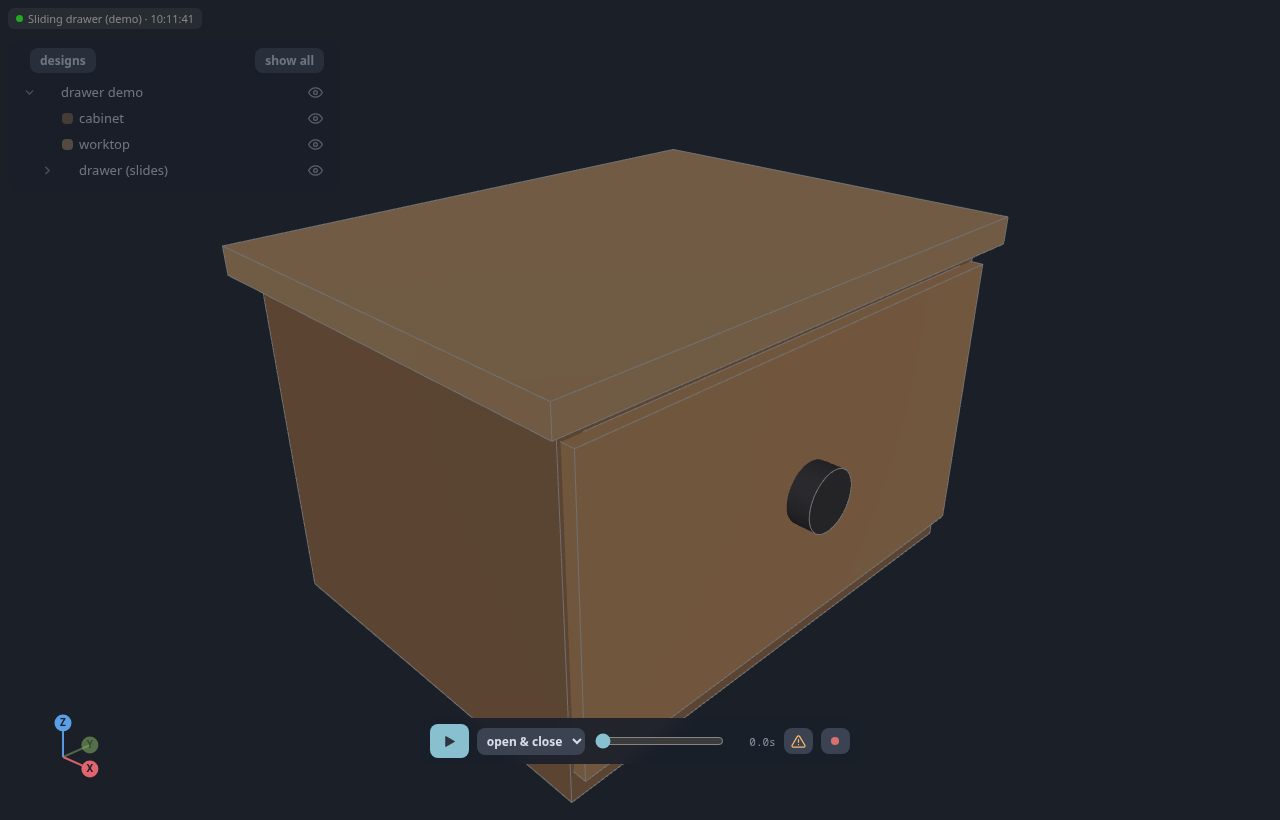
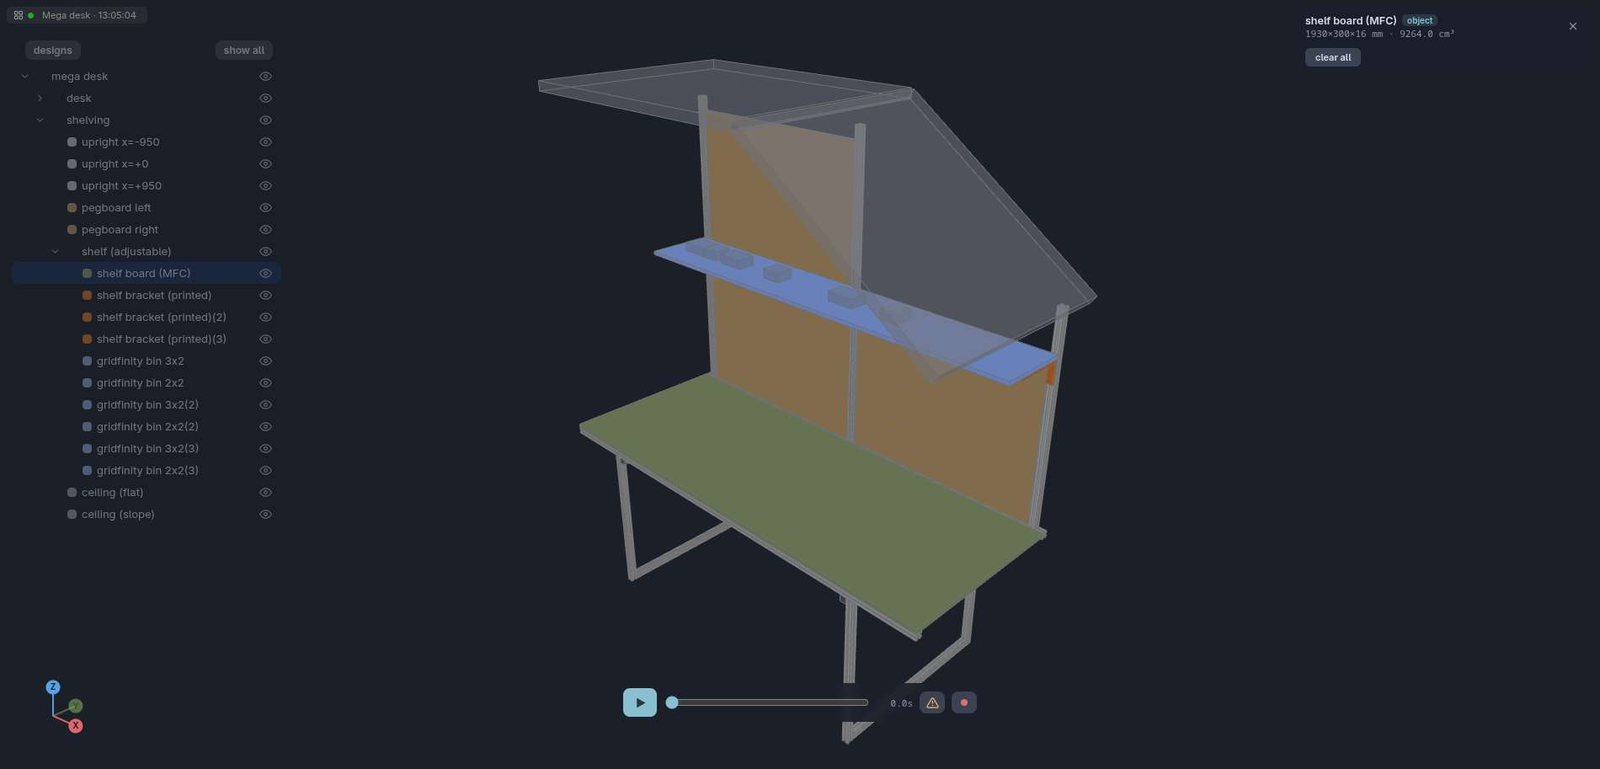
examples: a real 2 m workbench with shelving (mega desk) and an XY gantry with stacked Z + gripper (pick-and-place clip)

diff --git a/examples/gantry.py b/examples/gantry.py
@@ -1,0 +1,137 @@
+"""Gantry — a 1000 x 500 belt-driven XY stage on a 20-series frame with a
+stacked two-axis Z and a gripper over a bed of samples (a lab robot,
+condensed). Nested groups ride on each other — Y stage > X carriage > Z1 >
+Z2 > gripper — so one clip with tracks on five nodes is a full pick-and-
+place, and the ⚠ clearance check has real work to do.
+
+    python examples/gantry.py           -> http://127.0.0.1:3941/gantry
+"""
+import os
+
+from build123d import Align, Box, Color, Compound, Cylinder, Pos, Rot
+
+os.environ.setdefault("CADVIEW_SCENE", "gantry")
+
+X_RAIL, Y_RAIL = 1000.0, 500.0           # actuator rail lengths
+DECK_H = 450.0                           # base top -> deck
+BEAM_W, BEAM_H = 40.0, 20.0              # 2040 lying flat
+POST = 40.0
+RAIL_W, RAIL_H = 20.0, 40.0              # actuator rail section (carriage rides the narrow face)
+PLATE, PLATE_T, LIFT = 65.5, 3.0, 2.5    # gantry plate, its thickness, gap over the rail
+TRAVEL_LOSS = 154.0                      # plate + end-stops
+BED_Z = 26.0
+UP = (Align.CENTER, Align.CENTER, Align.MIN)
+
+ALU = Color(0.78, 0.80, 0.83)
+RAIL = Color(0.62, 0.64, 0.68)
+PLATE_C = Color(0.16, 0.16, 0.18)
+MOTOR = Color(0.22, 0.22, 0.24)
+BED = Color(0.85, 0.83, 0.78)
+GRIP = Color(0.85, 0.45, 0.15)
+LID = Color(0.85, 0.88, 1.0, 0.25)
+SAMPLES = [Color(0.85, 0.3, 0.3), Color(0.3, 0.6, 0.9), Color(0.95, 0.75, 0.2), Color(0.4, 0.75, 0.4)]
+
+
+def part(shape, label, color):
+    shape.label, shape.color = label, color
+    return shape
+
+
+def nema17(label):
+    body = Box(42.3, 42.3, 40, align=UP) + Pos(0, 0, 40) * Cylinder(2.5, 22, align=UP)
+    return part(body, label, MOTOR)
+
+
+def frame():
+    parts = []
+    base_z = BEAM_H / 2
+    for sy, name in ((-1, "front beam (2060 arm rail)"), (1, "rear beam")):
+        w = 60 if sy < 0 else BEAM_W
+        parts.append(part(Pos(0, sy * (Y_RAIL / 2 - w / 2), base_z) * Box(X_RAIL, w, BEAM_H), name, ALU))
+    for sx in (-1, 1):
+        parts.append(part(Pos(sx * (X_RAIL / 2 - BEAM_W / 2), 0, base_z) * Box(BEAM_W, Y_RAIL - 100, BEAM_H),
+                          f"side beam {'left' if sx < 0 else 'right'}", ALU))
+        for sy in (-1, 1):
+            parts.append(part(Pos(sx * (X_RAIL / 2 - POST / 2), sy * (Y_RAIL / 2 - BEAM_H / 2), BEAM_H) * Box(POST, BEAM_H, DECK_H, align=UP),
+                              f"post {'front' if sy < 0 else 'rear'} {'left' if sx < 0 else 'right'}", ALU))
+    parts.append(part(Pos(0, 0, BED_Z) * Box(X_RAIL - 2 * POST, Y_RAIL - 60, 6), "bed", BED))
+    for i, (x, y) in enumerate(((-120, -40), (0, 40), (120, -30), (240, 50))):
+        parts.append(part(Pos(x, y, BED_Z + 3) * Cylinder(22, 14, align=UP), f"sample {'ABCD'[i]}", SAMPLES[i]))
+    parts.append(part(Pos(0, 0, BEAM_H + DECK_H + RAIL_H + 60) * Box(X_RAIL, Y_RAIL, 8), "LED lightbox lid", LID))
+    return Compound(children=parts, label="frame")
+
+
+def gantry(cx=0.5, cy=0.5, cz=0.3):
+    deck_z = BEAM_H + DECK_H                              # top of the posts
+    y_travel, x_travel = Y_RAIL - TRAVEL_LOSS, X_RAIL - TRAVEL_LOSS
+    y0 = -y_travel / 2 + cy * y_travel
+    x0 = -x_travel / 2 + cx * x_travel
+    rails = []
+    for sx in (-1, 1):
+        x = sx * (X_RAIL / 2 - POST / 2)
+        rails.append(part(Pos(x, 0, deck_z) * Box(RAIL_W, Y_RAIL, RAIL_H, align=UP), f"Y rail {'left' if sx < 0 else 'right'}", RAIL))
+        rails.append(Pos(x, Y_RAIL / 2 + 20, deck_z + RAIL_H - 40) * Rot(90, 0, 0) * nema17(f"Y motor {'left' if sx < 0 else 'right'}"))
+    plate_z = deck_z + RAIL_H + LIFT                      # underside of the Y carriage plates
+    y_parts = []
+    for sx in (-1, 1):
+        x = sx * (X_RAIL / 2 - POST / 2)
+        y_parts.append(part(Pos(x, 0, plate_z) * Box(PLATE, PLATE, PLATE_T, align=UP), f"Y carriage {'left' if sx < 0 else 'right'}", PLATE_C))
+    x_rail_z = plate_z + PLATE_T
+    y_parts.append(part(Pos(0, 0, x_rail_z) * Box(X_RAIL, RAIL_W, RAIL_H, align=UP), "X rail", RAIL))
+    y_parts.append(Pos(-X_RAIL / 2 - 20, 0, x_rail_z) * Rot(0, -90, 0) * nema17("X motor"))
+    xplate_z = x_rail_z + RAIL_H + LIFT
+    x_parts = [part(Pos(0, 0, xplate_z) * Box(PLATE, PLATE, PLATE_T, align=UP), "X carriage plate", PLATE_C)]
+    # stacked Z hangs off the X plate's rear face: Z1 rail fixed, Z1 carriage
+    # carries the Z2 rail, Z2 carriage carries the gripper bar
+    z1_len, z2_len = 300.0, 200.0
+    z1_top = xplate_z + PLATE_T
+    x_parts.append(part(Pos(0, PLATE / 2 + RAIL_W / 2, z1_top - z1_len) * Box(RAIL_H, RAIL_W, z1_len, align=UP), "Z1 rail", RAIL))
+    x_parts.append(Pos(0, PLATE / 2 + RAIL_W / 2, z1_top) * nema17("Z1 motor"))
+    z1_y = PLATE / 2 + RAIL_W + LIFT
+    z1_c = z1_top - 90 - cz * (z1_len - 110)              # Z1 carriage plate centre height
+    z1_parts = [part(Pos(0, z1_y, z1_c) * Box(PLATE, PLATE_T, PLATE, align=(Align.CENTER, Align.MIN, Align.CENTER)), "Z1 carriage plate", PLATE_C)]
+    z2_y = z1_y + PLATE_T + RAIL_W / 2
+    z1_parts.append(part(Pos(0, z2_y, z1_c + 60 - z2_len) * Box(RAIL_H, RAIL_W, z2_len, align=UP), "Z2 rail", RAIL))
+    z1_parts.append(Pos(0, z2_y, z1_c + 60) * nema17("Z2 motor"))
+    z2_yp = z2_y + RAIL_W / 2 + LIFT
+    z2_c = z1_c + 60 - z2_len + 70
+    z2_parts = [part(Pos(0, z2_yp, z2_c) * Box(PLATE, PLATE_T, PLATE, align=(Align.CENTER, Align.MIN, Align.CENTER)), "Z2 carriage plate", PLATE_C)]
+    bar_z = z2_c - PLATE / 2 - 10
+    z2_parts.append(part(Pos(0, z2_yp + 14, bar_z) * Box(120, 24, 12), "gripper bar", GRIP))
+    for sx, name in ((-1, "finger left"), (1, "finger right")):
+        z2_parts.append(part(Pos(sx * 40, z2_yp + 14, bar_z - 6 - 60) * Box(10, 20, 60, align=UP), name, GRIP))
+    z1_parts.append(Compound(children=z2_parts, label="Z2 stage"))
+    x_parts.append(Compound(children=z1_parts, label="Z1 stage"))
+    y_parts.append(Pos(x0, 0, 0) * Compound(children=x_parts, label="X carriage"))
+    stage = Pos(0, y0, 0) * Compound(children=y_parts, label="Y stage")
+    return Compound(children=rails + [stage], label="XY stage")
+
+
+def build(cx=0.5, cy=0.5, cz=0.3):
+    return Compound(children=[frame(), gantry(cx, cy, cz)], label="gantry")
+
+
+# pick-and-place: the stage drives over sample C, both Z axes drop, the
+# fingers close, everything lifts and carries it to the right — tracks on
+# nested nodes compose (the gripper moves with Z2, Z2 with Z1, Z1 with X)
+PICK = [
+    ("Y stage", "ty", [0, 0.5, 2.0, 5.5, 7.0, 8.5], [0, 0, -125, -125, -35, -35]),
+    ("X carriage", "tx", [0, 0.5, 2.0, 5.5, 7.0, 8.5], [0, 0, 120, 120, 300, 300]),
+    ("Z1 stage", "tz", [0, 2.0, 3.0, 4.5, 5.5, 7.0, 8.0], [0, 0, -150, -150, 0, 0, -150]),
+    ("Z2 stage", "tz", [0, 3.0, 3.6, 4.4, 5.0, 7.3, 8.0], [0, 0, -50, -50, 0, 0, -50]),
+    ("finger left", "tx", [0, 3.8, 4.2, 8.0, 8.4], [0, 0, 12, 12, 0]),
+    ("finger right", "tx", [0, 3.8, 4.2, 8.0, 8.4], [0, 0, -12, -12, 0]),
+    # the sample is not a child of the gripper, so it gets the ride spelled out
+    ("sample C", "tz", [0, 4.4, 5.0, 5.5, 7.0, 7.3, 8.0], [0, 0, 50, 200, 200, 150, 0]),
+    ("sample C", "tx", [0, 5.5, 7.0], [0, 0, 180]),
+    ("sample C", "ty", [0, 5.5, 7.0], [0, 0, 90]),
+]
+JOG = [
+    ("Y stage", "ty", [0, 1.5, 3.0], [-150, 150, -150]),
+    ("X carriage", "tx", [0, 0.75, 1.5, 2.25, 3.0], [-380, 380, -380, 380, -380]),
+]
+
+if __name__ == "__main__":
+    from cadview import show
+    show(build(), title="Gantry",
+         animation=[{"name": "pick & place", "tracks": PICK}, {"name": "jog", "tracks": JOG, "speed": 1}])

diff --git a/examples/mega_desk.py b/examples/mega_desk.py
@@ -1,0 +1,150 @@
+"""Mega desk — a 2000 x 800 workbench on 3030 extrusion with shelving under a
+sloping ceiling (a real desk, condensed). ~50 parts in nested groups, a
+translucent ceiling, pegboard, and a shelf that is height-adjustable — so
+the part tree, hide/show and a one-track animation all have something to do.
+
+    python examples/mega_desk.py        -> http://127.0.0.1:3941/mega-desk
+"""
+import os
+
+from build123d import (Align, Box, Circle, Color, Compound, Cylinder, Pos,
+                       PolarLocations, Rectangle, RectangleRounded, Rot, extrude)
+
+os.environ.setdefault("CADVIEW_SCENE", "mega-desk")
+
+# ---- desk ------------------------------------------------------------------
+DESK_L, DESK_W, TOP_T = 2000.0, 800.0, 18.0
+PROF = 30.0                              # 3030 extrusion
+LEG_LEN = 690.0
+LEG_X, LEG_Y = DESK_L / 2 - 300, DESK_W / 2 - PROF / 2      # ±700, ±385
+CROSS_LEN = DESK_W - 2 * PROF
+TOP_FRAME_Z = LEG_LEN + PROF / 2
+TOP_Z = LEG_LEN + PROF                   # underside of the MDF
+BACK_LEG_LEN = LEG_LEN + TOP_T           # back legs one MDF thickness longer:
+BACK_RAIL_TOP = BACK_LEG_LEN + PROF      # the back rail tops out flush with the MDF
+DESK_TOP = TOP_Z + TOP_T
+
+ALU = Color(0.75, 0.77, 0.80)
+MDF = Color(0.55, 0.62, 0.45)
+GREY = Color(0.35, 0.35, 0.38)
+PRINTED = Color(0.85, 0.45, 0.15)
+PEGBOARD = Color(0.72, 0.60, 0.42)
+BIN = Color(0.55, 0.65, 0.85)
+CEILING = Color(0.6, 0.6, 0.65, 0.35)
+UP = (Align.CENTER, Align.CENTER, Align.MIN)
+
+
+def part(shape, label, color):
+    shape.label, shape.color = label, color
+    return shape
+
+
+def profile_3030():
+    """A generic 3030 T-slot section — looks right, not vendor-exact."""
+    sk = RectangleRounded(PROF, PROF, 2)
+    slot = Pos(0, PROF / 2 - 1.6) * Rectangle(8.2, 3.2) + Pos(0, PROF / 2 - 5.5) * Rectangle(16.5, 5)
+    for loc in PolarLocations(0, 4):
+        sk -= loc * slot
+    return sk - Circle(3.4)
+
+
+PROFILE = profile_3030()
+
+
+def rail(length):
+    return extrude(PROFILE, amount=length)      # along +Z from z=0
+
+
+def bracket():
+    return Box(28, 28, 28, align=UP) - Pos(8, 8, 8) * Box(28, 28, 28, align=UP)
+
+
+def desk():
+    parts = []
+    for sx in (-1, 1):
+        for sy in (-1, 1):
+            parts.append(part(Pos(sx * LEG_X, sy * LEG_Y, 0) * rail(BACK_LEG_LEN if sy > 0 else LEG_LEN),
+                              f"leg {'back' if sy > 0 else 'front'} {'left' if sx < 0 else 'right'}", ALU))
+    for sy in (-1, 1):
+        parts.append(part(Pos(-DESK_L / 2, sy * LEG_Y, TOP_FRAME_Z + (TOP_T if sy > 0 else 0)) * Rot(0, 90, 0) * rail(DESK_L),
+                          f"long rail {'back' if sy > 0 else 'front'}", ALU))
+    for x, name in ((-LEG_X, "cross rail left"), (0.0, "cross rail centre"), (LEG_X, "cross rail right")):
+        parts.append(part(Pos(x, -CROSS_LEN / 2, TOP_FRAME_Z) * Rot(-90, 0, 0) * rail(CROSS_LEN), name, ALU))
+    for sx in (-1, 1):
+        parts.append(part(Pos(sx * LEG_X, -CROSS_LEN / 2, PROF / 2) * Rot(-90, 0, 0) * rail(CROSS_LEN),
+                          f"foot rail {'left' if sx < 0 else 'right'}", ALU))
+    for sx in (-1, 1):
+        for sy in (-1, 1):
+            parts.append(part(Pos(sx * (LEG_X - PROF / 2 - 14), sy * LEG_Y, (BACK_LEG_LEN if sy > 0 else LEG_LEN) - 28) * bracket(),
+                              "bracket", GREY))
+    parts.append(part(Pos(0, -PROF / 2, TOP_Z + TOP_T / 2) * Box(DESK_L, DESK_W - PROF, TOP_T), "MDF top", MDF))
+    return Compound(children=parts, label="desk")
+
+
+# ---- shelving under the sloping ceiling ---------------------------------------
+UPRIGHT_X = (-950.0, 0.0, 950.0)
+CEIL_RIGHT, CEIL_HIGH, CEIL_RUN = 900.0, 1500.0, 850.0   # above the desk top: 900 at the right end, 1500 850 mm in
+SHELF_H, SHELF_D, SHELF_T = 740.0, 300.0, 16.0           # shelf top above the desk top
+
+
+def ceil_h(x):
+    """Ceiling height above the desk top at x (flat 1500, sloping down to 900 at the right end)."""
+    run = max(0.0, x - (DESK_L / 2 - CEIL_RUN))
+    return CEIL_HIGH - (CEIL_HIGH - CEIL_RIGHT) * run / CEIL_RUN
+
+
+def pegboard(w, h):
+    """6 mm board, 7 mm holes on a 50 mm grid (the real board is 25 mm;
+    coarser keeps the example quick to build)."""
+    board = Box(w, 6, h, align=UP)
+    nx, nz = int((w - 90) // 50) + 1, int((h - 90) // 50) + 1
+    hole = Rot(90, 0, 0) * Cylinder(3.5, 10)
+    holes = Compound(children=[Pos((i - (nx - 1) / 2) * 50, 0, 45 + k * 50) * hole
+                               for i in range(nx) for k in range(nz)])
+    return board - holes
+
+
+def shelving():
+    parts = []
+    for x in UPRIGHT_X:
+        length = min(DESK_TOP + ceil_h(x) - 20, DESK_TOP + 1400) - BACK_RAIL_TOP
+        parts.append(part(Pos(x, LEG_Y, BACK_RAIL_TOP) * rail(length), f"upright x={x:+.0f}", ALU))
+    for i, (x0, x1) in enumerate(zip(UPRIGHT_X, UPRIGHT_X[1:])):
+        full = i == 0                                    # right bay stops at the shelf under the slope
+        h = (min(ceil_h(x1), 1400) - 60) if full else SHELF_H - SHELF_T
+        parts.append(part(Pos((x0 + x1) / 2, LEG_Y, BACK_RAIL_TOP) * pegboard(x1 - x0 - PROF - 20, h),
+                          f"pegboard {'left' if full else 'right'}", PEGBOARD))
+    shelf_z = DESK_TOP + SHELF_H
+    shelf_parts = [part(Pos(0, LEG_Y - PROF / 2 - SHELF_D / 2, shelf_z - SHELF_T / 2) * Box(DESK_L - 70, SHELF_D, SHELF_T),
+                        "shelf board (MFC)", MDF)]
+    for x in UPRIGHT_X:
+        arm = Box(28, 220, 12, align=(Align.CENTER, Align.MAX, Align.MAX)) + Box(28, 12, 100, align=(Align.CENTER, Align.MAX, Align.MAX))
+        shelf_parts.append(part(Pos(x, LEG_Y - PROF / 2, shelf_z - SHELF_T) * arm, "shelf bracket (printed)", PRINTED))
+    for i, x in enumerate((-800, -700, -560, -300, 100, 350)):
+        n = 2 if i % 2 else 3
+        shelf_parts.append(part(Pos(x, LEG_Y - PROF / 2 - 150, shelf_z) * Box(n * 42 - 0.5, 83.5, 42, align=UP),
+                                f"gridfinity bin {n}x2", BIN))
+    parts.append(Compound(children=shelf_parts, label="shelf (adjustable)"))
+    flat_x0, flat_x1 = -DESK_L / 2, DESK_L / 2 - CEIL_RUN
+    parts.append(part(Pos((flat_x0 + flat_x1) / 2, 50, DESK_TOP + CEIL_HIGH + 20) * Box(flat_x1 - flat_x0, 900, 40),
+                      "ceiling (flat)", CEILING))
+    import math
+    drop = CEIL_HIGH - CEIL_RIGHT
+    slope_len = math.hypot(CEIL_RUN, drop)
+    ang = math.degrees(math.atan2(drop, CEIL_RUN))
+    parts.append(part(Pos(flat_x1 + CEIL_RUN / 2, 50, DESK_TOP + CEIL_HIGH + 20 - drop / 2) * Rot(0, ang, 0) * Box(slope_len, 900, 40),
+                      "ceiling (slope)", CEILING))
+    return Compound(children=parts, label="shelving")
+
+
+def build():
+    return Compound(children=[desk(), shelving()], label="mega desk")
+
+
+# the shelf sits on T-nutted brackets: one track lifts the whole shelf group
+# (board, brackets, bins) by one 180 mm pitch and back
+SHELF_PITCH = [("shelf (adjustable)", "tz", [0, 0.8, 2.2, 3.2, 4.6], [0, 0, 180, 180, 0])]
+
+if __name__ == "__main__":
+    from cadview import show
+    show(build(), title="Mega desk", animation=[{"name": "shelf: one pitch up", "tracks": SHELF_PITCH}])

diff --git a/README.md b/README.md
@@ -42,25 +42,30 @@ part, two selections show the distance between them, double-click finds a
 part in the tree, ⏺ records the playing clip to video.
 
 Try it without installing: **[bjsi.github.io/cadview](https://bjsi.github.io/cadview/)** —
-or locally, `python examples/demo.py` → `http://127.0.0.1:3941/demo`
-(`python examples/parts.py` adds a few more to browse in the gallery at `/`)
+or locally: `python examples/mega_desk.py` (a 2 m workbench with shelving,
+~50 parts in groups) and `python examples/gantry.py` (an XY gantry with a
+stacked Z and gripper, animated) → `http://127.0.0.1:3941/` lists them;
+`examples/demo.py` is the minimal one, `examples/parts.py` fills the gallery.
 
 ## Animate
 
-![sliding drawer clip](docs/demo.gif)
+![gantry pick-and-place clip](docs/demo.gif)
 
 ```python
-SLIDE = [("drawer (slides)", "tx", [0, 0.6, 2.0, 3.4, 4.6, 5.2], [0, 0, 85, 85, 0, 0])]
-PEEK  = [("drawer (slides)", "tx", [0, 0.4, 1.1, 1.8, 2.3], [0, 0, 28, 0, 0])]
-show(build(), animation=[{"name": "open & close", "tracks": SLIDE},
-                         {"name": "peek", "tracks": PEEK}])
+PICK = [("Y stage",    "ty", [0, 0.5, 2.0, 5.5, 7.0], [0, 0, -125, -125, -35]),
+        ("X carriage", "tx", [0, 0.5, 2.0, 5.5, 7.0], [0, 0,  120,  120, 300]),
+        ("Z1 stage",   "tz", [0, 2.0, 3.0, 4.5, 5.5], [0, 0, -150, -150,   0]),
+        ("finger left", "tx", [0, 3.8, 4.2], [0, 0, 12])]
+show(build(), animation=[{"name": "pick & place", "tracks": PICK}])
 ```
 
 A track is `(selector, action, times, values)`: selectors match part
 labels, actions are `tx/ty/tz` (mm), `rx/ry/rz` (degrees about the node's
 own origin), `vis` (show/hide) and `q`; tracks on the same node add
-together. Clips get a dropdown; ⚠ toggles the animated collision check.
-`examples/demo.py` is the scene in the gif. Agents (or you) can fetch every
+together, and a node carries its children — the gripper rides Z2, Z2 rides
+Z1, Z1 rides the X carriage. Clips get a dropdown; ⚠ toggles the animated
+collision check. `examples/gantry.py` is the scene in the gif
+(`examples/demo.py` is a one-track drawer). Agents (or you) can fetch every
 part's world bbox from `GET /api/parts` and verify tracks headlessly with
 `POST /api/clearance`; `cadview.Timeline` builds tracks phase-by-phase if
 the arrays get unwieldy — see `docs/DETAILS.md`.
